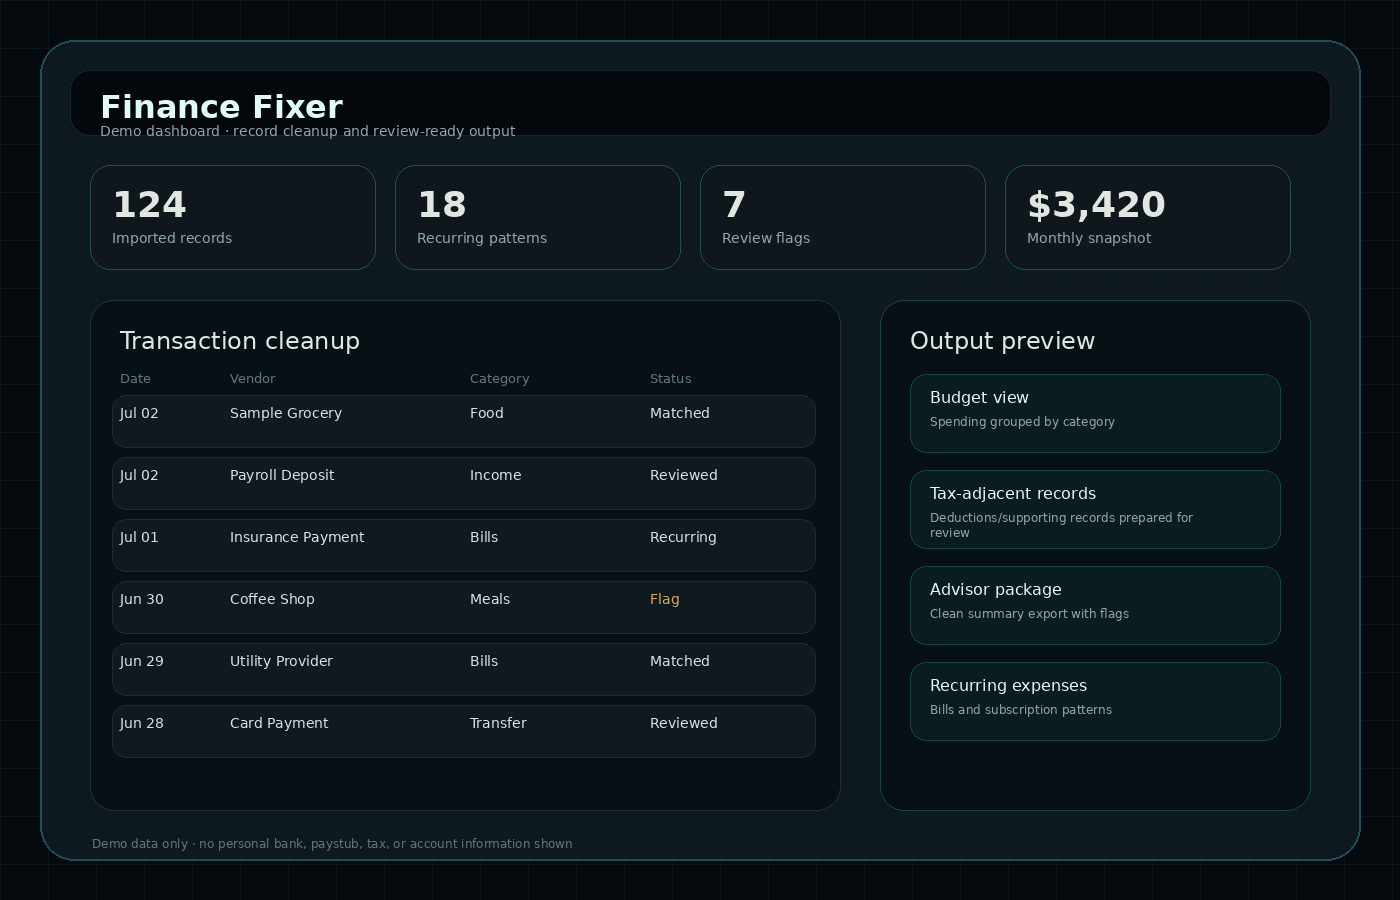
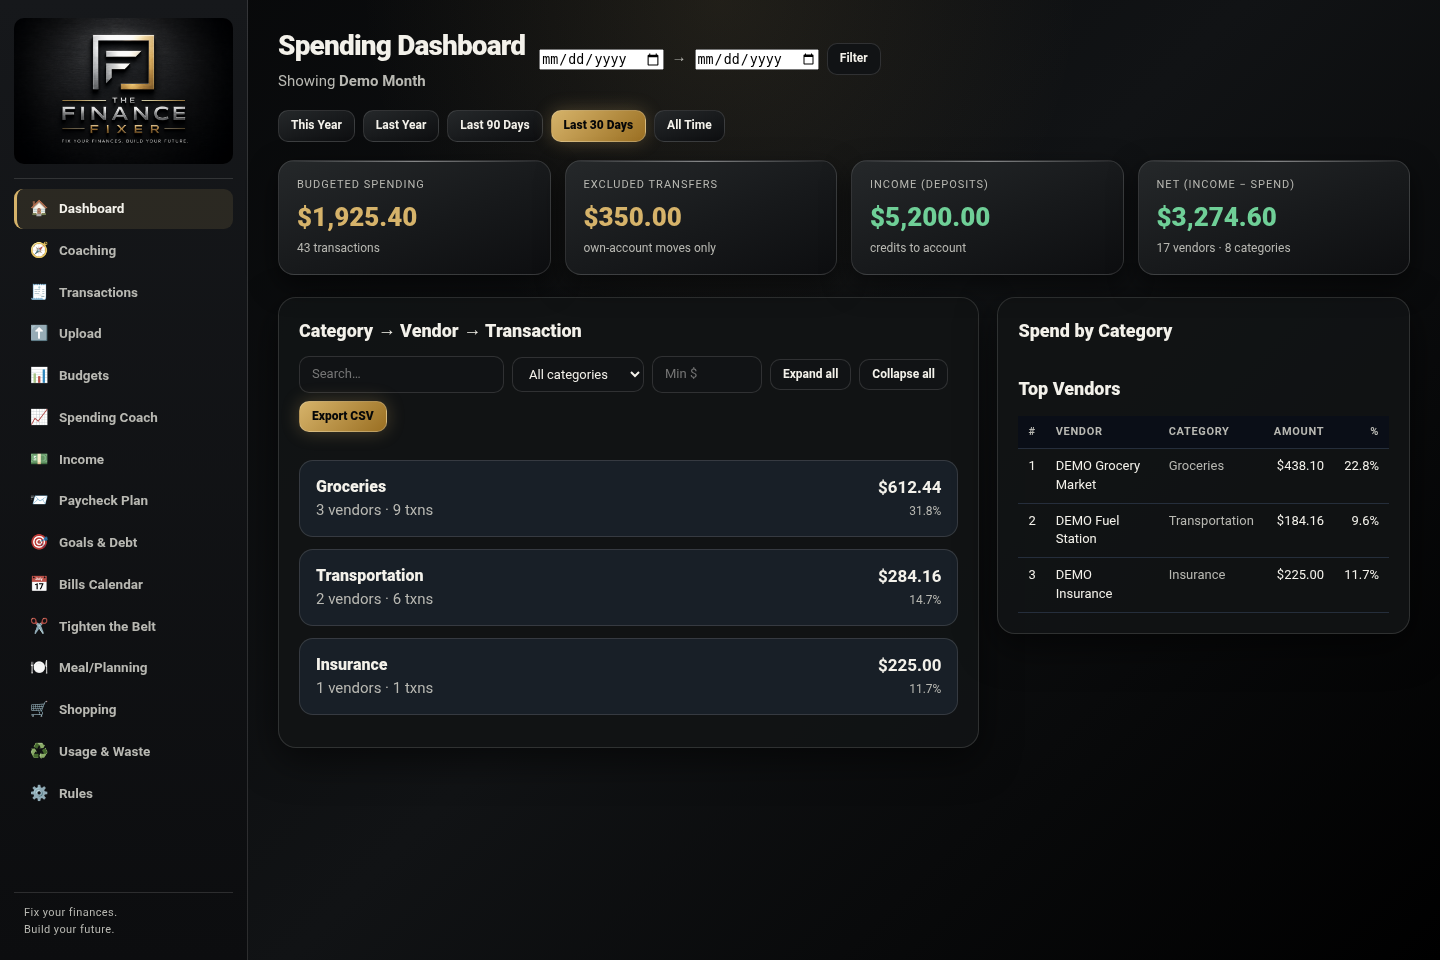
Publish v1.15 actual product screenshots

diff --git a/index.html b/index.html
@@ -33,13 +33,13 @@
   <main>
     <section class="hero"><div class="wrap hero-grid"><div class="flow"><div class="kicker">Decision-support software</div><h1><span class="grad">Software for Complex Decisions</span></h1><p class="lead">L33TCORE builds practical decision-support software for people working through messy records, unclear workflows, and complex decisions.</p><p class="sublead">Finance Fixer and APEX help turn scattered information into cleaner structure, better review paths, and more useful conversations. Built for the work before the decision.</p><div class="actions"><a class="btn finance-btn" href="#finance-fixer">Explore Finance Fixer</a><a class="btn apex-btn" href="#apex">Explore APEX</a><a class="btn primary" href="#contact">Contact L33TCORE</a></div></div><aside class="hero-panel" aria-label="L33TCORE product suite"><div class="hero-logo"><img src="assets/l33tcore-primary-lockup-safe.png" alt="L33TCORE Industries logo lockup"></div><div class="mini-suite"><div class="mini-card finance"><strong>Finance Fixer</strong><span>Financial record cleanup, transaction analysis, and review-ready outputs.</span></div><div class="mini-card apex"><strong>APEX</strong><span>Professional review, coaching workflow, redaction, scoring, and reporting.</span></div></div></aside></div></section>
 
-    <section id="products"><div class="wrap"><div class="section-head"><h2 class="section-title">Product Suite</h2><p class="section-copy">Finance Fixer and APEX are separate early products under L33TCORE Industries. Each solves a different problem, but both follow the same rule: organize the messy inputs before important decisions are made.</p></div><div class="grid two"><article class="card suite-card finance"><div><div class="product-logo"><img src="assets/finance-fixer-logo.png" alt="Finance Fixer product logo"></div><div class="product-num">Product 01</div><h3 class="product-title">Finance Fixer</h3><p>Financial record cleanup and transaction analysis for cleaner review-ready views.</p><div class="chips"><span class="chip">Transactions</span><span class="chip">Receipts</span><span class="chip">Paystubs</span><span class="chip">Recurring expenses</span><span class="chip">Advisor-ready records</span></div></div><div class="product-shot"><img src="assets/finance-fixer-ui-demo.png" alt="Finance Fixer demo dashboard with transaction cleanup and output preview"><div class="shot-caption">Demo-data UI preview. No personal financial data is shown.</div></div><div class="actions"><a class="btn finance-btn" href="#finance-fixer">Request Finance Fixer Early Access</a></div></article><article class="card suite-card apex"><div><div class="product-logo"><img src="assets/apex-logo.png" alt="APEX product logo"></div><div class="product-num">Product 02</div><h3 class="product-title">APEX</h3><p>Structured review and coaching workflow software for performance inputs, manager notes, scoring, redaction, reports, and development conversations.</p><div class="chips"><span class="chip">Coaching plans</span><span class="chip">Manager notes</span><span class="chip">Structured scoring</span><span class="chip">Redaction</span><span class="chip">Development planning</span></div></div><div class="product-shot"><img src="assets/apex-ui-demo.png" alt="APEX demo workspace with review workflow, scorecard, and report output"><div class="shot-caption">Demo-data UI preview. No employee, employer, or client data is shown.</div></div><div class="actions"><a class="btn apex-btn" href="#apex">Request an APEX Demo</a></div></article></div></div></section>
+    <section id="products"><div class="wrap"><div class="section-head"><h2 class="section-title">Product Suite</h2><p class="section-copy">Finance Fixer and APEX are separate early products under L33TCORE Industries. Each solves a different problem, but both follow the same rule: organize the messy inputs before important decisions are made.</p></div><div class="grid two"><article class="card suite-card finance"><div><div class="product-logo"><img src="assets/finance-fixer-logo.png" alt="Finance Fixer product logo"></div><div class="product-num">Product 01</div><h3 class="product-title">Finance Fixer</h3><p>Financial record cleanup and transaction analysis for cleaner review-ready views.</p><div class="chips"><span class="chip">Transactions</span><span class="chip">Receipts</span><span class="chip">Paystubs</span><span class="chip">Recurring expenses</span><span class="chip">Advisor-ready records</span></div></div><div class="product-shot"><img src="assets/finance-fixer-ui-demo.png" alt="Actual Finance Fixer dashboard screen captured from the software with demo transaction data"><div class="shot-caption">Actual Finance Fixer dashboard capture using demo records. No personal financial data is shown.</div></div><div class="actions"><a class="btn finance-btn" href="#finance-fixer">Request Finance Fixer Early Access</a></div></article><article class="card suite-card apex"><div><div class="product-logo"><img src="assets/apex-logo.png" alt="APEX product logo"></div><div class="product-num">Product 02</div><h3 class="product-title">APEX</h3><p>Structured review and coaching workflow software for performance inputs, manager notes, scoring, redaction, reports, and development conversations.</p><div class="chips"><span class="chip">Coaching plans</span><span class="chip">Manager notes</span><span class="chip">Structured scoring</span><span class="chip">Redaction</span><span class="chip">Development planning</span></div></div><div class="product-shot"><img src="assets/apex-ui-demo.png" alt="Actual APEX Summit Meridian dashboard screen captured from the software"><div class="shot-caption">Actual APEX Summit Meridian UI capture. No employee, employer, or client data is shown.</div></div><div class="actions"><a class="btn apex-btn" href="#apex">Request an APEX Demo</a></div></article></div></div></section>
 
     <section id="who"><div class="wrap"><div class="section-head"><h2 class="section-title">Built for people who need cleaner decisions.</h2><p class="section-copy">L33TCORE products are designed for people who need better structure before acting: individuals, advisors, managers, builders, coaches, and professionals working through scattered information.</p></div><div class="grid four"><div class="card who-card"><b>Individuals</b><p>Organize financial records, spending patterns, receipts, and supporting documents before important reviews.</p></div><div class="card who-card"><b>Advisors and preparers</b><p>Receive cleaner record packages instead of disconnected files, notes, and transaction exports.</p></div><div class="card who-card"><b>Managers and coaches</b><p>Turn notes, goals, feedback, and observations into structured development conversations.</p></div><div class="card who-card"><b>Operators and builders</b><p>Convert messy workflows into repeatable systems that can be reviewed, improved, and scaled.</p></div></div></div></section>
 
     <section><div class="wrap"><div class="section-head"><h2 class="section-title">The pattern is simple.</h2><p class="section-copy">L33TCORE products are built around a clear conversion path: scattered inputs, structured software, and cleaner outputs.</p></div><div class="flow-diagram"><div class="flow-box"><strong>Messy inputs</strong><span>Records, notes, statements, reports, goals, receipts, and incomplete context.</span></div><div class="arrow">→</div><div class="flow-box"><strong>L33TCORE system</strong><span>Organize, score, structure, categorize, redact, summarize, and prepare.</span></div><div class="arrow">→</div><div class="flow-box"><strong>Cleaner outputs</strong><span>Review-ready summaries, decision records, reports, plans, and next steps.</span></div></div></div></section>
 
-    <section id="visuals"><div class="wrap"><div class="section-head"><h2 class="section-title">Product visuals with demo-safe data.</h2><p class="section-copy">The site now uses product logos and interface previews to show what the tools produce without exposing bank records, employee data, client files, or private information.</p></div><div class="visual-section"><article class="card visual-card finance"><div class="product-logo"><img src="assets/finance-fixer-logo.png" alt="Finance Fixer logo"></div><div class="product-shot"><img src="assets/finance-fixer-ui-demo.png" alt="Finance Fixer demo UI screenshot"></div><h3>Finance Fixer output path</h3><div class="output-grid"><div class="output-card"><b>Inputs</b><span>Bank activity, cards, receipts, paystubs, statements, spreadsheets, notes, and recurring bills.</span></div><div class="output-card"><b>System work</b><span>Categorize, group, flag patterns, isolate recurring expenses, and prepare clean views.</span></div><div class="output-card"><b>Outputs</b><span>Budget views, tax-adjacent record groups, spending summaries, and advisor-ready exports.</span></div></div></article><article class="card visual-card apex"><div class="product-logo"><img src="assets/apex-logo.png" alt="APEX logo"></div><div class="product-shot"><img src="assets/apex-ui-demo.png" alt="APEX demo UI screenshot"></div><h3>APEX review path</h3><div class="output-grid"><div class="output-card"><b>Inputs</b><span>Manager notes, coaching records, goals, performance data, documents, and reporting signals.</span></div><div class="output-card"><b>System work</b><span>Score, structure, redact, compare signals, organize follow-ups, and prepare reports.</span></div><div class="output-card"><b>Outputs</b><span>Manager summaries, coaching reports, development plans, decision records, and scorecards.</span></div></div></article></div></div></section>
+    <section id="visuals"><div class="wrap"><div class="section-head"><h2 class="section-title">Actual product screens, demo-safe data.</h2><p class="section-copy">These visuals are captured from the actual Finance Fixer and APEX software bundles using demo-safe records or empty workspace states. No bank records, employee data, client files, or private information are exposed.</p></div><div class="visual-section"><article class="card visual-card finance"><div class="product-logo"><img src="assets/finance-fixer-logo.png" alt="Finance Fixer logo"></div><div class="product-shot"><img src="assets/finance-fixer-ui-demo.png" alt="Actual Finance Fixer software dashboard screenshot with demo data"></div><h3>Finance Fixer output path</h3><div class="output-grid"><div class="output-card"><b>Inputs</b><span>Bank activity, cards, receipts, paystubs, statements, spreadsheets, notes, and recurring bills.</span></div><div class="output-card"><b>System work</b><span>Categorize, group, flag patterns, isolate recurring expenses, and prepare clean views.</span></div><div class="output-card"><b>Outputs</b><span>Budget views, tax-adjacent record groups, spending summaries, and advisor-ready exports.</span></div></div></article><article class="card visual-card apex"><div class="product-logo"><img src="assets/apex-logo.png" alt="APEX logo"></div><div class="product-shot"><img src="assets/apex-ui-demo.png" alt="Actual APEX Summit Meridian software dashboard screenshot"></div><h3>APEX review path</h3><div class="output-grid"><div class="output-card"><b>Inputs</b><span>Manager notes, coaching records, goals, performance data, documents, and reporting signals.</span></div><div class="output-card"><b>System work</b><span>Score, structure, redact, compare signals, organize follow-ups, and prepare reports.</span></div><div class="output-card"><b>Outputs</b><span>Manager summaries, coaching reports, development plans, decision records, and scorecards.</span></div></div></article></div></div></section>
 
     <section id="finance-fixer"><div class="wrap product-section"><div class="card finance flow"><div class="product-logo"><img src="assets/finance-fixer-logo.png" alt="Finance Fixer product logo"></div><div class="label">Product 01 / Finance Fixer</div><h2 class="section-title">Messy money records into cleaner review paths.</h2><p>Finance Fixer organizes transactions, receipts, paystubs, bank activity, statements, spreadsheets, recurring expenses, and tax-adjacent records into more usable views.</p><p>It is built for the cleanup stage: before a budget review, tax-prep conversation, advisor meeting, or personal finance reset.</p><div class="actions"><a class="btn finance-btn" href="mailto:[email redacted]?subject=Finance%20Fixer%20Early%20Access">Request Finance Fixer Early Access</a></div><div class="disclaimer">Organizational and analytical software. Not legal, tax, accounting, investment, or financial advice.</div></div><div class="feature-list"><div class="feature"><b>Messy inputs</b><span>Bank data, card activity, receipts, paystubs, statements, spreadsheets, notes, and recurring bills.</span></div><div class="feature"><b>What it does</b><span>Organizes, categorizes, groups, flags patterns, and prepares cleaner record views.</span></div><div class="feature"><b>Cleaner outputs</b><span>Budget views, tax-adjacent record groups, spending summaries, recurring expense lists, and advisor-ready exports.</span></div><div class="feature"><b>Best used for</b><span>Personal record cleanup, finance preparation, budget reviews, and organizing supporting documents before professional conversations.</span></div></div></div></section>
 
@@ -51,6 +51,6 @@
 
     <section id="contact"><div class="wrap contact"><div><h2>Let’s talk about the right decision system for your workflow.</h2><p>Request early access, ask about APEX, discuss Finance Fixer, or start a founder-level product conversation.</p><p class="disclaimer">L33TCORE Industries LLC is an Arizona domestic limited liability company. Current working email uses jessegray.com while business-domain email is configured.</p></div><div><a class="email" href="mailto:[email redacted]?subject=L33TCORE%20Industries%20Inquiry">[email redacted]</a><div class="cta-stack"><a class="btn finance-btn" href="mailto:[email redacted]?subject=Finance%20Fixer%20Early%20Access">Request Finance Fixer Early Access</a><a class="btn apex-btn" href="mailto:[email redacted]?subject=APEX%20Demo%20Request">Request an APEX Demo</a><a class="btn primary" href="mailto:[email redacted]?subject=Founder%20Inquiry">Contact the Founder</a></div></div></div></section>
   </main>
-  <footer class="footer"><div class="wrap"><span>© 2026 L33TCORE Industries LLC. All rights reserved. <span class="site-version">Site v1.14</span></span><span>Arizona domestic LLC · ACC Business ID [phone redacted] · Finance Fixer · APEX · Contact</span></div></footer>
+  <footer class="footer"><div class="wrap"><span>© 2026 L33TCORE Industries LLC. All rights reserved. <span class="site-version">Site v1.15</span></span><span>Arizona domestic LLC · ACC Business ID [phone redacted] · Finance Fixer · APEX · Contact</span></div></footer>
 </body>
 </html>

diff --git a/README.md b/README.md
@@ -1,3 +1,3 @@
-# L33TCORE Industries website v1.14
+# L33TCORE Industries Website v1.15
 
-Conversion update with product logos, demo-safe UI previews, and visual product proof for Finance Fixer and APEX.
+Actual product screen update using captured Finance Fixer and APEX software visuals with demo-safe data.